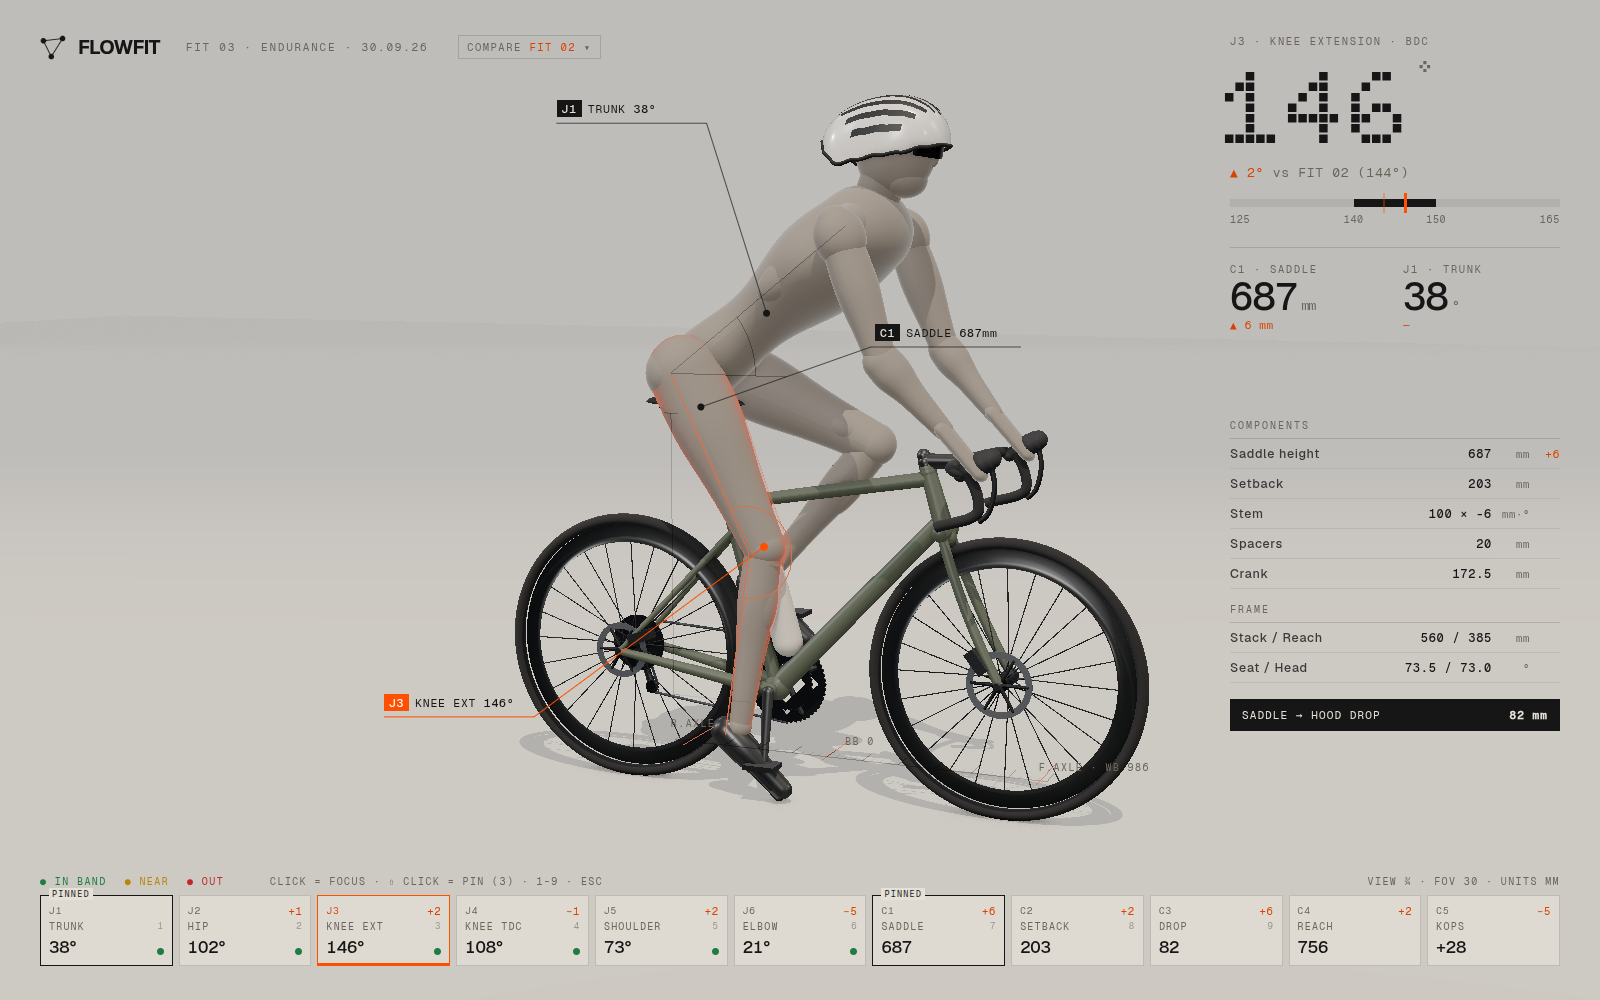
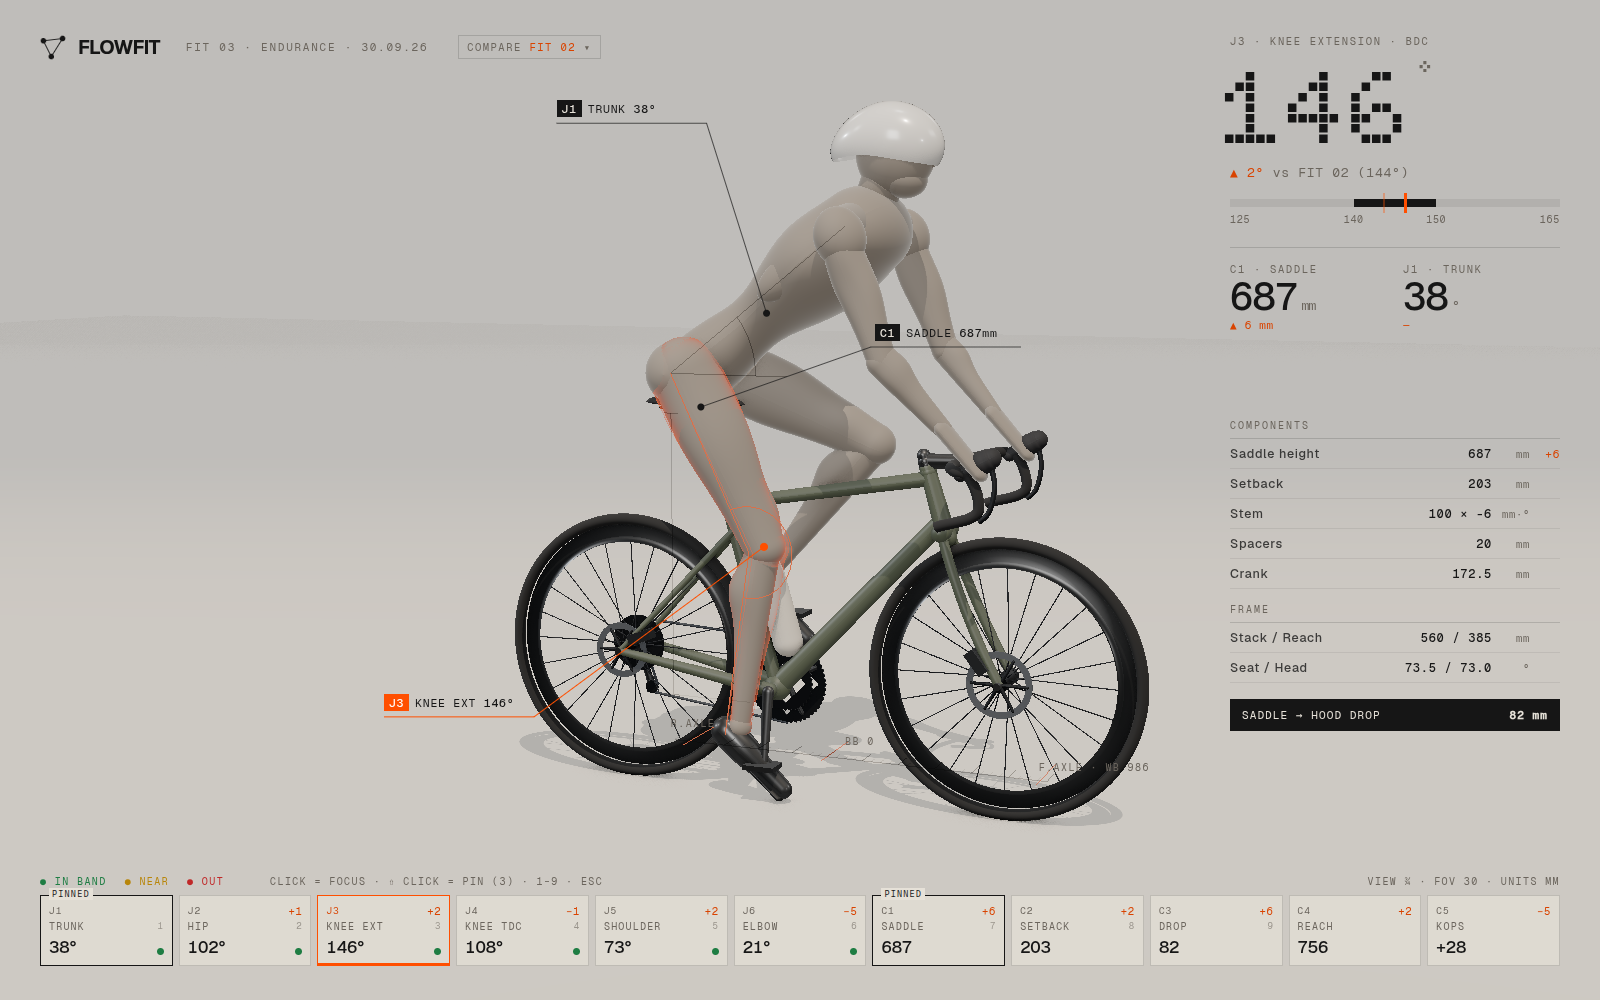
Rider: Ovett-style toned build, surface-built muscles and calves, earlier helmet
Reshapes the clay mannequin towards a tall, lean, toned road racer, with
muscles deformed into the limb surfaces (quads, VMO, calves on the
posterior shin, biceps and triceps) instead of attached blobs. Reverts
the helmet to the earlier shell, drops the lofted/vented version, and
refreshes the mock-ups and reference source.

Claude-Session: https://claude.ai/code/session_01NLmMAFFsk38kWFHaEgHSMq

diff --git a/docs/plans/mockups/src/rider3.js b/docs/plans/mockups/src/rider3.js
@@ -9,6 +9,20 @@ function taperLimb(a, b, prof, sx, sz, mat) {
   for (let i = 0; i < p.count; i++) { const t = Math.min(1, Math.max(0, p.getY(i) / L)); p.setX(i, p.getX(i) * sx(t)); p.setZ(i, p.getZ(i) * sz(t)); }
   g.computeVertexNormals(); const m = between(new THREE.Mesh(g, mat), a, b); return m;
 }
+// Lathe limb with directional muscle bulges built into the surface.
+// bulges: [{ dir: world Vector3 (unit, ⟂ bone), t, w, amp, spread }] — radius += amp·gauss(t)·max(0,cos θ)^spread
+function muscleLimb(a, b, prof, bulges, mat, sxz = [1, 1]) {
+  const L = a.distanceTo(b), g = limbGeometry(L, prof, 48, 64), p = g.attributes.position;
+  const q = new THREE.Quaternion().setFromUnitVectors(V(0, 1, 0), b.clone().sub(a).normalize()), qi = q.clone().invert();
+  const loc = bulges.map(u => { const d = u.dir.clone().applyQuaternion(qi); d.y = 0; d.normalize(); return { ...u, d }; });
+  for (let i = 0; i < p.count; i++) {
+    const x = p.getX(i), y = p.getY(i), z = p.getZ(i), rr = Math.hypot(x, z); if (rr < 1e-3) continue;
+    const t = Math.min(1, Math.max(0, y / L)); let add = 0;
+    for (const u of loc) { const c = (x * u.d.x + z * u.d.z) / rr; if (c > 0) add += u.amp * Math.exp(-((t - u.t) ** 2) / (2 * u.w * u.w)) * Math.pow(c, u.spread ?? 2); }
+    const k = (rr + add) / rr; p.setX(i, x * k * sxz[0]); p.setZ(i, z * k * sxz[1]);
+  }
+  g.computeVertexNormals(); const m = new THREE.Mesh(g, mat); m.position.copy(a); m.quaternion.copy(q); return m;
+}
 const ell = (p, r, mat, rotZ = 0) => { const m = new THREE.Mesh(new THREE.SphereGeometry(1, 40, 24), mat); m.scale.set(...r); m.position.copy(p); m.rotation.z = rotZ; return m; };
 
 export function buildRider(G, MAT) {
@@ -18,7 +32,7 @@ export function buildRider(G, MAT) {
   const hip = V2(J.hip), sh = V2(J.shoulder), ax = sh.clone().sub(hip).normalize(), nrm = V(-ax.y, ax.x); // nrm = "up/back" side of torso
   const trunkA = Math.atan2(ax.y, ax.x);
   // Torso: pelvis → narrow waist → broad ribcage/lats → chest; V-taper in width, flat back
-  const torsoProf = t => 100 - 14 * bump(t, .36, .14) + 16 * bump(t, .78, .16);
+  const torsoProf = t => 98 - 20 * bump(t, .36, .13) + 18 * bump(t, .78, .16);
   g.add(taperLimb(hip.clone().addScaledVector(ax, -10), sh.clone().addScaledVector(ax, -18), torsoProf,
     t => lerp(.9, 1.02, ss(.3, .85, t)), t => lerp(1.08, 1.6, ss(.28, .86, t)), CL));
   for (const s of [-1, 1]) g.add(ell(hip.clone().lerp(sh, .66).addScaledVector(nrm, 10).setZ(s * 128), [92, 44, 34], CL, trunkA)); // lats
@@ -31,18 +45,27 @@ export function buildRider(G, MAT) {
   }
   // pelvis + glutes
   g.add(tube(V(J.hip.x - 16, J.hip.y - 4, hh), V(J.hip.x - 16, J.hip.y - 4, -hh), 78, 78, CL));
-  for (const s of [-1, 1]) g.add(ell(V(J.hip.x - 52, J.hip.y - 20, s * 54), [62, 56, 56], CL, trunkA * .3));
+  for (const s of [-1, 1]) g.add(ell(V(J.hip.x - 52, J.hip.y - 20, s * 54), [58, 52, 52], CL, trunkA * .3));
   // legs: quads (vastus + VMO teardrop), calf mass behind the shin
   const legs = [[1, J.knee, J.ankle, J.cleatL, FO], [-1, J.kneeR, J.ankleR, J.cleatR, CL]];
   for (const [s, kn, an, cl, M] of legs) {
     const h = V2(J.hip, s * hh), k = V2(kn, s * st), a = V2(an, s * st), c = V2(cl, s * st);
-    g.add(limb(h, k, t => lerp(84, 51, t) + 12 * bump(t, .3, .2), M, [1.02, .9]));
-    const kd = k.clone().sub(h).normalize(), kn2 = V(-kd.y, kd.x);
-    g.add(ell(h.clone().lerp(k, .82).addScaledVector(kn2, 8).setZ(s * (st - 26)), [30, 50, 26], M, Math.atan2(kd.y, kd.x) + Math.PI / 2)); // VMO
-    g.add(sphere(k, 52, M, [1, 1, .9]));
-    g.add(limb(k, a, t => lerp(45, 27, t) + 8 * bump(t, .3, .14), M, [1, .92]));
-    const sd = a.clone().sub(k).normalize(), back = V(sd.y, -sd.x); // calf behind (rearward)
-    g.add(ell(k.clone().lerp(a, .3).addScaledVector(back, -18), [34, 88, 34], M, Math.atan2(sd.y, sd.x) + Math.PI / 2));
+    const kd = k.clone().sub(h).normalize(), antT = V(-kd.y, kd.x).normalize(); if (antT.y < 0) antT.negate();
+    const med = V(0, 0, -s), lat = V(0, 0, s);
+    g.add(muscleLimb(h, k, t => lerp(80, 50, t) + 6 * bump(t, .3, .2), [
+      { dir: antT, t: .45, w: .22, amp: 16, spread: 2 },                               // rectus / vastus mass
+      { dir: antT.clone().add(med).normalize(), t: .84, w: .08, amp: 14, spread: 3 },  // VMO teardrop
+      { dir: lat, t: .45, w: .2, amp: 12, spread: 2 },                                 // vastus lateralis sweep
+      { dir: antT.clone().negate(), t: .35, w: .2, amp: 8, spread: 2 },                // hamstrings
+    ], M, [1, .92]));
+    g.add(sphere(k, 49, M, [1, 1, .9]));
+    const sd = a.clone().sub(k).normalize(); let post = V(sd.y, -sd.x).normalize(); if (post.x > 0) post.negate();
+    g.add(muscleLimb(k, a, t => lerp(42, 24, t), [
+      { dir: post.clone().add(med.clone().multiplyScalar(.5)).normalize(), t: .27, w: .12, amp: 26, spread: 2 }, // gastrocnemius medial head
+      { dir: post.clone().add(lat.clone().multiplyScalar(.5)).normalize(), t: .24, w: .1, amp: 18, spread: 2 },  // lateral head
+      { dir: post, t: .5, w: .16, amp: 10, spread: 2 },                                                          // soleus → Achilles
+      { dir: lat, t: .3, w: .16, amp: 5, spread: 2 },                                                            // tibialis/peroneals
+    ], M, [1, .92]));
     g.add(sphere(a, 29, M));
     const toeDir = c.clone().sub(a).setZ(0).normalize(), heel = a.clone().add(V(-36, -18)), toe = c.clone().addScaledVector(toeDir, 70).add(V(20, -4));
     g.add(limb(heel, toe, t => lerp(38, 24, t) + 6 * bump(t, .3, .2), MAT.shoe, [1, .82]));
@@ -51,23 +74,29 @@ export function buildRider(G, MAT) {
   // arms: biceps/triceps mass, forearm flare
   for (const s of [-1, 1]) {
     const shp = V2(J.shoulder, s * hs), el = V2(J.elbow, s * (hs + 6)), wr = V2(J.wrist, s * hw), hd = V2(J.hands, s * hw);
-    g.add(limb(shp, el, t => lerp(46, 35, t) + 9 * bump(t, .45, .2), CL));
-    g.add(sphere(el, 35, CL));
-    g.add(limb(el, wr, t => lerp(41, 23, t) + 7 * bump(t, .18, .14), CL, [1, .86]));
+    const ud = el.clone().sub(shp).normalize(); let ant = V(-ud.y, ud.x).normalize(); if (ant.x < 0) ant.negate();
+    g.add(muscleLimb(shp, el, t => lerp(42, 33, t), [
+      { dir: ant, t: .52, w: .18, amp: 12, spread: 2 },               // biceps
+      { dir: ant.clone().negate(), t: .38, w: .2, amp: 13, spread: 2 }, // triceps
+      { dir: V(0, 0, s), t: .2, w: .14, amp: 8, spread: 2 },            // deltoid insertion
+    ], CL));
+    g.add(sphere(el, 33, CL));
+    const fd = wr.clone().sub(el).normalize(); let up2 = V(-fd.y, fd.x).normalize(); if (up2.y < 0) up2.negate();
+    g.add(muscleLimb(el, wr, t => lerp(36, 21, t), [{ dir: up2, t: .18, w: .14, amp: 10, spread: 2 }, { dir: V(0, 0, s), t: .22, w: .15, amp: 6, spread: 2 }], CL, [1, .86]));
     const hEnd = hd.clone().add(hd.clone().sub(wr).normalize().multiplyScalar(28));
     g.add(limb(wr, hEnd, t => lerp(24, 21, t), MAT.glove, [.78, 1.3]));
   }
   // neck (thick), head, jaw, glasses, helmet
   const headC = V2(J.head);
-  g.add(tube(sh.clone().add(V(-12, -22)), headC.clone().add(V(-26, -44)), 58, 52, CL));
+  g.add(tube(sh.clone().add(V(-12, -22)), headC.clone().add(V(-26, -44)), 54, 49, CL));
   const na = Math.atan2(J.head.y - J.neckBase.y, J.head.x - J.neckBase.x), gaze = na - d2r(80);
   const H = new THREE.Group(); H.position.copy(headC); H.rotation.z = gaze; g.add(H);
   H.add(ell(V(0, 0, 0), [96, 108, 76], CL), ell(V(28, -60, 0), [58, 46, 56], CL), ell(V(90, -4, 0), [16, 22, 11], CL));
-  const band = new THREE.Mesh(new THREE.CylinderGeometry(1, 1, 30, 64, 1, true, Math.PI * .2, Math.PI * .6), MAT.lens); band.scale.set(106, 1, 88); band.position.set(4, 12, 0); H.add(band);
-  H.add(new THREE.Mesh(helmetGeometry(1), MAT.helmet));
-  for (const [s0, s1, pc, pw] of VENTS) H.add(new THREE.Mesh(helmetGeometry(1, s0, s1, pc - pw, pc + pw, 1.2, 30, 6), MAT.vent));
-  const lip = []; for (let i = 0; i <= 80; i++) lip.push(helmetPoint(i / 80, -1)); for (let i = 80; i >= 0; i--) lip.push(helmetPoint(i / 80, 1));
-  H.add(new THREE.Mesh(new THREE.TubeGeometry(new THREE.CatmullRomCurve3(lip, true), 200, 4.5, 8, true), MAT.vent));
+  { // helmet: the earlier shell (upper 62% of a sphere, flattened, with a rear tail kick)
+    const hg = new THREE.SphereGeometry(1, 72, 36, 0, Math.PI * 2, 0, Math.PI * .62), p = hg.attributes.position;
+    for (let i = 0; i < p.count; i++) { let x = p.getX(i), y = p.getY(i), z = p.getZ(i); z *= .86; y *= .78; if (x < 0) { x *= 1.28; y -= .18 * x * x; } else x *= 1.06; p.setXYZ(i, x * 116 - 10, y * 122 + 16, z * 95); }
+    hg.computeVertexNormals(); H.add(new THREE.Mesh(hg, MAT.helmet));
+  }
   g.traverse(o => { if (o.isMesh) { o.castShadow = true; o.receiveShadow = true; } });
   return g;
 }

diff --git a/docs/plans/mockups/src/draw2d.js b/docs/plans/mockups/src/draw2d.js
@@ -95,7 +95,7 @@ export function clayDefs(tok) {
 export function clayFigure(G, part) {
   const { J } = G; const s = [];
   const Pg = p => `<polygon class="clay" points="${p}"/>`;
-  if (part === 'farLeg') { s.push(Pg(seg(J.hip, J.kneeR, t => lerp(84, 51, t) + 12 * bumpf(t, .3, .2))), Pg(seg(J.kneeR, J.ankleR, t => lerp(45, 27, t) + 8 * bumpf(t, .3, .14)))); const sd = Math.atan2(J.ankleR.y - J.kneeR.y, J.ankleR.x - J.kneeR.x); const cc = v(lerp(J.kneeR.x, J.ankleR.x, .3) + Math.sin(sd) * -18, lerp(J.kneeR.y, J.ankleR.y, .3) - Math.cos(sd) * -18); s.push(Pg(ellP(cc, 88, 34, sd))); }
+  if (part === 'farLeg') { s.push(Pg(seg(J.hip, J.kneeR, t => lerp(84, 51, t) + 12 * bumpf(t, .3, .2))), Pg(seg(J.kneeR, J.ankleR, t => lerp(45, 27, t) + 8 * bumpf(t, .3, .14)))); const sd = Math.atan2(J.ankleR.y - J.kneeR.y, J.ankleR.x - J.kneeR.x); const cc = v(lerp(J.kneeR.x, J.ankleR.x, .28) - 26, lerp(J.kneeR.y, J.ankleR.y, .28)); s.push(Pg(ellP(cc, 92, 42, sd))); }
   if (part === 'farArm') s.push(Pg(seg(J.shoulder, J.elbow, t => lerp(46, 35, t) + 9 * bumpf(t, .45, .2))), Pg(seg(J.elbow, J.wrist, t => lerp(41, 23, t) + 7 * bumpf(t, .18, .14))));
   if (part === 'body') {
     const ax = Math.atan2(J.shoulder.y - J.hip.y, J.shoulder.x - J.hip.x);
@@ -107,7 +107,7 @@ export function clayFigure(G, part) {
     s.push(Pg(ellP(v(J.shoulder.x + Math.cos(ua) * 26, J.shoulder.y + Math.sin(ua) * 26), 70, 58, ua)));
     s.push(Pg(seg(J.shoulder, J.elbow, t => lerp(46, 35, t) + 9 * bumpf(t, .45, .2))), Pg(seg(J.elbow, J.wrist, t => lerp(41, 23, t) + 7 * bumpf(t, .18, .14))));
   }
-  if (part === 'nearLeg') { s.push(Pg(seg(J.hip, J.knee, t => lerp(84, 51, t) + 12 * bumpf(t, .3, .2))), Pg(seg(J.knee, J.ankle, t => lerp(45, 27, t) + 8 * bumpf(t, .3, .14)))); const sd = Math.atan2(J.ankle.y - J.knee.y, J.ankle.x - J.knee.x); const cc = v(lerp(J.knee.x, J.ankle.x, .3) - Math.sin(sd) * 18, lerp(J.knee.y, J.ankle.y, .3) + Math.cos(sd) * 18); s.push(Pg(ellP(cc, 88, 34, sd))); }
+  if (part === 'nearLeg') { s.push(Pg(seg(J.hip, J.knee, t => lerp(84, 51, t) + 12 * bumpf(t, .3, .2))), Pg(seg(J.knee, J.ankle, t => lerp(45, 27, t) + 8 * bumpf(t, .3, .14)))); const sd = Math.atan2(J.ankle.y - J.knee.y, J.ankle.x - J.knee.x); const cc = v(lerp(J.knee.x, J.ankle.x, .28) - 26, lerp(J.knee.y, J.ankle.y, .28)); s.push(Pg(ellP(cc, 92, 42, sd))); }
   return s.join('');
 }
 export function clayHead(G) {
@@ -115,9 +115,7 @@ export function clayHead(G) {
   const R = (x, y) => [J.head.x + x * Math.cos(gz) - y * Math.sin(gz), J.head.y + x * Math.sin(gz) + y * Math.cos(gz)];
   const el = (cx, cy, rx, ry) => { const o = []; for (let i = 0; i < 36; i++) { const a = i / 36 * Math.PI * 2; o.push(R(cx + Math.cos(a) * rx, cy + Math.sin(a) * ry)); } return pts(o); };
   let s = `<g filter="url(#fres)"><polygon class="clay" points="${el(0, 0, 96, 108)}"/><polygon class="clay" points="${el(28, -60, 58, 46)}"/><polygon class="clay" points="${el(90, -4, 16, 22)}"/></g>`;
-  s += `<polygon class="lens" points="${pts([R(58, 26), R(104, 24), R(106, 4), R(96, -2), R(60, 2), R(20, 14)])}"/>`;
-  const top = [], bot = []; for (let i = 0; i <= 90; i++) { const t = i / 90, a = helmetPoint(t, 0), b = helmetPoint(t, 1); top.push(R(a.x, a.y)); bot.push(R(b.x, b.y)); }
-  s += `<polygon class="helmet" points="${pts([...top, ...bot.reverse()])}"/>`;
-  for (const [s0, s1, pc] of VENTS) if (pc > .3) { const o = []; for (let i = 0; i <= 20; i++) { const q = helmetPoint(lerp(s0, s1, i / 20), pc); o.push(R(q.x, q.y)); } s += `<polyline class="vent" points="${pts(o)}"/>`; }
+  const shl = (k, off) => { const o = []; for (let i = 0; i <= 80; i++) { const th = -Math.PI * .62 + i / 80 * Math.PI * 1.24; let x = Math.sin(th), y = Math.cos(th); y *= .78; if (x < 0) { x *= 1.28; y -= .18 * x * x; } else x *= 1.06; o.push(R(x * 116 * k - 10, y * 122 * k + 16 - off)); } return o; };
+  s += `<polygon class="helmet" points="${pts(shl(1, 0).concat(shl(.88, 4).reverse()))}"/>`;
   return s;
 }

diff --git a/docs/plans/site-redesign.md b/docs/plans/site-redesign.md
@@ -50,6 +50,7 @@ of PNS, MAAP or Rapha). They care about details and exactness. They are nerdy ab
 |---|---|
 | `00-brand-directions.png` | The three brand directions, in light and dark |
 | `01-app-fit-builder-2d-light.png` | **The canonical app screen:** nav, controls column, 2D side view, readout, Metric Rail, results column with fit history |
+| `06/07/08-rider-*.png` | **The current rider figure** (side, rear ¾ showing the calves, front ¾) with the earlier helmet |
 | `05-fresnel-options.png` | **The rider figure and Fresnel options:** clay / tonal rim / focus rim + x-ray ghost / dark |
 | `02-view3d-light.png` | 3D view, light (default) |
 | `03-view3d-dark.png` | 3D view, dark |
@@ -269,17 +270,17 @@ Restyle only. Positions come from the existing `bike` / `mannequin` sketches in 
 
 - **Representation:** a **segmented clay mannequin**, one neutral clay material (`--clay`), built from lathe limbs with
   anatomical profiles. There is no kit colouring, and **no** single blended/SDF surface: that was tried and rejected.
-- **Base physique:** an optimal road racer, **toned male** (1800 mm / 75 kg):
-  - broad shoulders: deltoid ellipsoids 60×70×56, set 34 mm outboard of the shoulder joints;
-  - a heavy trapezius slope and a thick neck (r 58→52);
-  - a V-taper torso: waist pinch at t≈0.36, width scale 1.08→1.6 towards the chest, a deep flat back, lat masses under the armpits;
-  - biceps / forearm mass;
-  - quads with vastus and VMO teardrop, a calf mass behind the shin;
-  - pelvis + glutes;
-  - **no pec masses** (they read wrongly when the rider leans).
-  
-  The exact numbers are in `rider3.js`. **Lengths and joint positions always come from the app's IK**; the base only sets
-  radii and shapes, scaled by `(weightKg / 75)^sensitivity` per segment. A female base in the same style is a later decision.
+- **Base physique:** modelled on **Freddy Ovett's build**: a tall, lean, toned male road racer (1800 mm / 75 kg base).
+  - **Shoulders and torso:** broad, capped deltoids (60×70×56, set 34 mm outboard of the shoulder joints). V-taper torso
+    (waist pinch at t≈0.36, width scale 1.08→1.6 towards the chest, a deep flat back, lat masses). A moderate trapezius
+    slope and a neck of r 54→49. Tight glutes. **No pec masses.**
+  - **Muscles are built into the limb surfaces, not added as blobs** (`rider3.js#muscleLimb`): each lathe vertex's radius
+    gets `amp·gauss(t)·max(0, cos θ)^spread` towards a world direction. Thigh: rectus/vastus at the front, a VMO teardrop at
+    the front-medial just above the knee, a vastus lateralis sweep, hamstrings. **Calves:** gastrocnemius medial (amp 26)
+    and lateral (amp 18) heads on the **posterior** side of the upper shin, soleus tapering to a slim ankle.
+    Arms: biceps, triceps, deltoid insertion, forearm brachioradialis.
+  - The exact numbers are in `rider3.js`. **Lengths and joint positions always come from the app's IK**; the base only sets
+    radii and shapes, scaled by `(weightKg / 75)^sensitivity` per segment. A female base in the same style is a later decision.
 - **Fresnel (tonal rim light)**, `fresnel.js#withFresnel`: a rim term mixed into the material colour. It is **not** emissive
   and has no bloom.
   - Light theme: rim `#FFFBF3`, strength ≈ 0.38, power 4. Dark theme: rim `#D6DDE6`, strength ≈ 0.5.
@@ -289,11 +290,11 @@ Restyle only. Positions come from the existing `bike` / `mannequin` sketches in 
   - **Pending product decision:** level 2 (tonal rim only) vs level 2+3 (plus the focus rim and x-ray ghost). The recommendation is 2+3.
 - **2D:** the same profiles drawn as clay polygons, with an SVG filter that erodes the alpha and flood-fills the ring to give an
   inner rim (tonal), plus an accent ring on the focused limb (`draw2d.js#clayDefs`, `clayFigure`).
-- **Helmet** (`kit.js#helmetPoint`): a lofted road-helmet shell in head-local space.
-  - The top line is an asymmetric superellipse (it peaks forward, with a long sloping tail).
-  - The bottom edge is a spline (brow high, low behind the ear, tail kick); cross-sections are superellipses.
-  - Add 9 recessed vent channels (`VENTS`), a dark liner lip, and wrap glasses.
-  - The head is an ellipsoid with jaw and brow masses; gaze = neck angle − 80°.
+- **Helmet: the earlier shell** (the lofted/vented version was rejected): `SphereGeometry(1, 72, 36, 0, 2π, 0, 0.62π)`,
+  with per-vertex `z *= .86; y *= .78; if (x < 0) { x *= 1.28; y -= .18·x² } else x *= 1.06`, then scaled `(116, 122, 95)`
+  and offset `(−10, 16, 0)` in head-local space. It is a plain shell in `--kit-light`, with no vents, glasses or straps.
+  The 2D side view uses the same curve as a crescent (outer shell plus a 0.88-scale inner line).
+  The head is an ellipsoid with jaw and brow masses; gaze = neck angle − 80°.
 
 ### 5.6 3D view (tracks C and E)
 

diff --git a/docs/plans/3d-instrument-redesign.md b/docs/plans/3d-instrument-redesign.md
@@ -6,9 +6,10 @@
 >   the Design System track and consumed here. Do not build the local `theme3d.ts` / `useTheme3D` described below;
 >   use `useTheme()` + `TOKENS` from `web/src/design/`.
 > - The accent is `#FF4F00` (brand direction 01 "Contact", **decided**), via tokens.
-> - **Superseded by master plan §5.5:** this plan's §5.2 profile numbers and §5.3 helmet recipe. The rider stays a
->   segmented lathe clay mannequin (as here), but reshaped to the toned male base, with a tonal Fresnel rim. The helmet
->   is the lofted recipe in `mockups/src/kit.js`.
+> - **Superseded by master plan §5.5:** this plan's §5.2 profile numbers. The rider stays a segmented lathe clay mannequin
+>   (as here), reshaped to a Freddy-Ovett-style toned build, with muscles deformed into the limb surfaces
+>   (`muscleLimb`) and a tonal Fresnel rim. The §5.3 helmet shell is kept as-is (values `(116, 122, 95)`, offset
+>   `(−10, 16, 0)`); vents are not used.
 > - **Bike (Phase 6) additions:** a full disc road bike: 52/36 chainrings, front and rear derailleurs, 11-speed cassette,
 >   chain through the pulleys, flat-mount calipers, 160/140 rotors on the left, STI hoods + levers, dropped stays,
 >   sloping top tube, aero seatpost, bottle + cage. Carbon-black deep rims and black tyres; **no tan walls, no light rim bands**.
